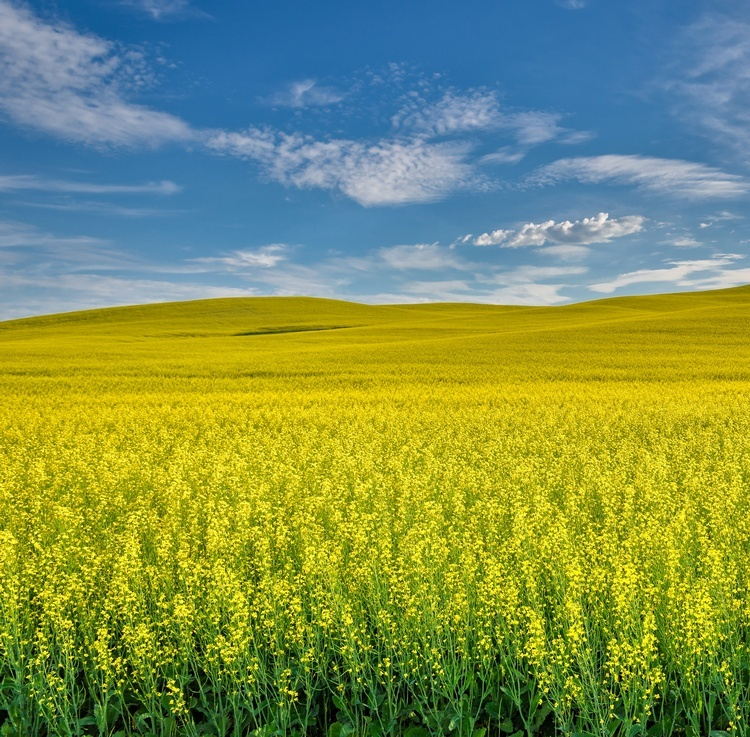
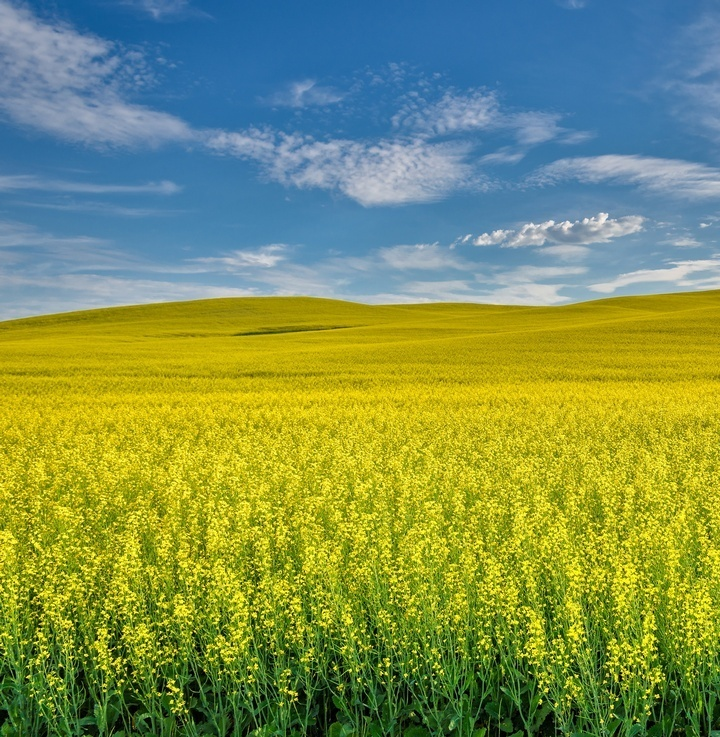
fix Intro slider but crash nav-menu :(

diff --git a/index.html b/index.html
@@ -40,10 +40,10 @@
             >
               <span class="navbar-toggler-icon"></span>
             </button>
-            <!-- MENU + SEARCH -->
-            <div class="collapse navbar-collapse container me-0" id="navbarScroll">
-              <ul class="navbar-nav navbar-nav-scroll d-flex col justify-content-end" style="--bs-scroll-height: 100px">
-                <li class="nav-item dropdown me-4">
+            <!-- Menu + Search -->
+            <div class="collapse navbar-collapse container me-0 w-25 d-flex col justify-content-end align-items-end" id="navbarScroll">
+              <ul class="w-75 navbar-nav navbar-nav-scroll d-flex justify-content-end align-items-end" style="--bs-scroll-height: 200px">
+                <li class="nav-item dropdown me-4 w-25">
                   <a class="nav-link dropdown-toggle offer" href="#" role="button" data-bs-toggle="dropdown" aria-expanded="false">
                     Oferta
                   </a>
@@ -63,7 +63,7 @@
                   <a class="nav-link" href="#">Kontakt</a>
                 </li>
               </ul>
-              <form role="search">
+              <form role="search" class="d-flex justify-content-end">
                 <input class="form-control visually-hidden m-0 d-inline" type="search" placeholder="szukaj..." aria-label="Search" />
                 <button class="btn btn-outline-none p-0" type="submit">
                   <img class="search_icon" src="./icons/search.svg" alt="search" />
@@ -77,29 +77,31 @@
       <!-- INTRO -->
       <section class="intro">
         <div class="w-100 m-0 d-flex flex-column flex-md-row">
-          <div class="left m-0 p-5 d-flex flex-column justify-content-center align-items-center">
+          <div class="left m-0 p-5 d-flex flex-column justify-content-center">
             <header class="lh-1 mb-5 p-0 display-3">Nowoczesna aranżacja Twojego ogrodu</header>
             <p class="fs-6 mb-5">
               Marka GiardDesign to wieloletnie doświadczenie i wysoka estetyka realizacji. Oferujemy kompleksowy zakres usług z
               indywidualnym podejściem do każdego projektu.
             </p>
-            <button class="contact mt-5 me-4 rounded-5 text-white fw-lighter">Skontaktuj się z nami</button>
-            <button class="our_projects mt-5 rounded-5">
-              Zobacz nasze realizacje <img class="ms-2 arrow_down" src="./icons/arrow-down.svg" alt="arrow" />
-            </button>
+            <div class="d-flex align-items-end">
+              <button class="contact mt-5 me-4 rounded-5 text-white fw-lighter">Skontaktuj się z nami</button>
+              <button class="our_projects mt-5 rounded-5">
+                Zobacz nasze realizacje <img class="ms-2 arrow_down" src="./icons/arrow-down.svg" alt="arrow" />
+              </button>
+            </div>
           </div>
 
-          <!-- SLIDER -->
-          <div id="carouselExample" class="right w-50 m-0 carousel slide d-flex align-items-end align-self-center">
+          <!-- Slider -->
+          <div id="carouselExample" class="right m-0 carousel slide">
             <div class="carousel-inner">
-              <div class="carousel-item active m-0">
-                <img src="./slider/1.jpg" class="img_slider" alt="garden1" />
+              <div class="carousel-item active">
+                <img src="./slider/1.jpg" class="m-0 p-0 object-fit-cover" alt="garden1" />
               </div>
-              <div class="carousel-item m-0">
-                <img src="./slider/2.jpg" class="img_slider" alt="garden2" />
+              <div class="carousel-item">
+                <img src="./slider/2.jpg" class="m-0 p-0 object-fit-cover" alt="garden2" />
               </div>
             </div>
-            <div class="arrows position-relative d-flex align-items-end">
+            <div class="arrows position-relative">
               <button
                 class="carousel-control-prev bg-white"
                 style="width: 80px; height: 80px"
@@ -175,9 +177,9 @@
 
       <!-- O FIRMIE -->
       <section class="about">
-        <div class="all w-100 m-0 d-flex flex-column flex-md-row">
-          <div class="foto p-0 container-md">
-            <img src="about_garden.jpg" alt="about_foto" class="left_foto m-0 p-0 d-block w-100 h-100 container-md object-fit-cover" />
+        <div class="w-100 m-0 d-flex flex-column flex-md-row">
+          <div class="p-0 container-md">
+            <img src="about_garden.jpg" alt="about_foto" class="m-0 p-0 d-block w-100 h-100 container-md object-fit-cover" />
           </div>
 
           <div class="right w-100 m-0 px-0 py-5 d-flex row justify-content-center">

diff --git a/style/intro.css b/style/intro.css
@@ -19,7 +19,7 @@ button.contact {
 }
 
 button.our_projects {
-  width: 250px;
+  width: 210px;
   height: 50px;
   font-size: 0.8rem;
   border: 1px solid #1b5b31;
@@ -44,10 +44,7 @@ div.right .carousel-control-next {
   opacity: 1;
 }
 
-.intro .arrow_left {
-  width: 35px;
-}
-
+.intro .arrow_left,
 .intro .arrow_right {
   width: 35px;
 }
